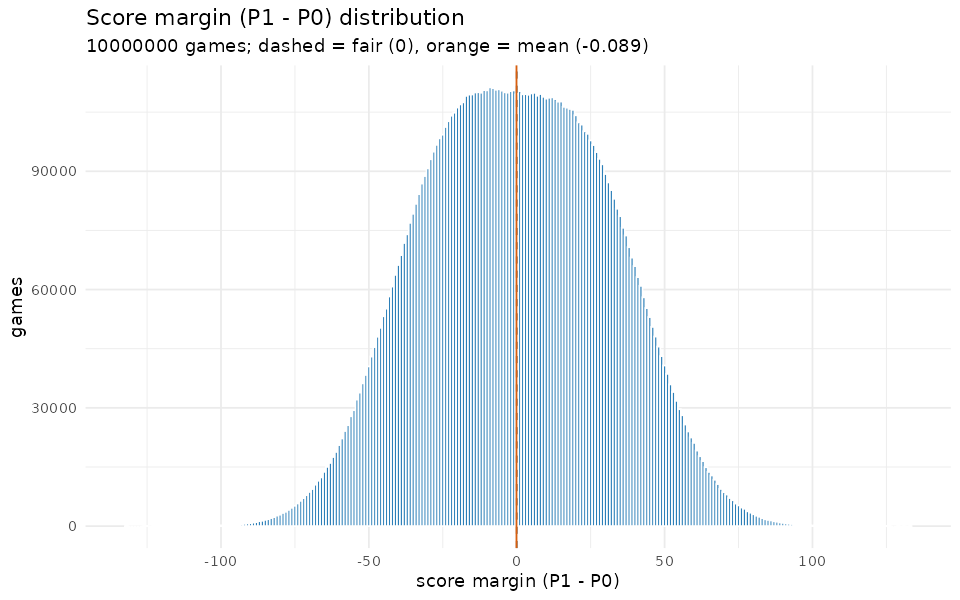
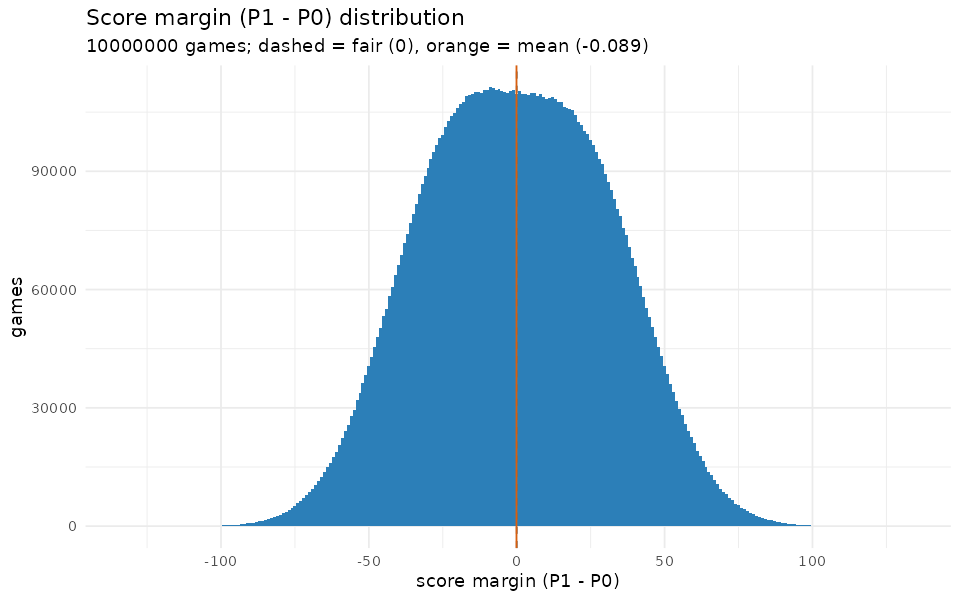
refactor(analysis): native DuckDB JSON ingest via duckplyr
Switch the fairness analysis to duckplyr with prudence "stingy", pushing all
aggregation into DuckDB and materialising only the small result tables (the
10M per-game rows never enter R):

- Unconditional INSTALL json then LOAD json on duckplyr's connection; read
  NDJSON natively (no more regexp_extract-over-VARCHAR workaround).
- One-time NDJSON -> typed Parquet conversion via compute_parquet, cached and
  rebuilt only when stale; subsequent runs read the Parquet directly.
- Per-setup aggregation via summarise(.by=) and the margin histogram binned in
  DuckDB; overall/among-setup CIs and the variance decomposition computed in R
  on the small collected tables. Variance derived from sd() since var() does
  not translate and duckplyr 1.2.1 has no dd$ escape hatch.

Also: note duckplyr/ggplot2 in DESCRIPTION Suggests, gitignore the Parquet
cache, update the analysis spec delta, and mark the extension tasks done
(6.5 documenting the extension install in the toolchain remains).

Claude-Session: https://claude.ai/code/session_01JtDe7DZz9Bb8VjmsTWFiH7

Changed region(s): [[0.25, 0.15, 0.8125, 0.9]]

diff --git a/openspec/changes/batch-fairness-runner/tasks.md b/openspec/changes/batch-fairness-runner/tasks.md
@@ -40,8 +40,10 @@
 - [x] 5.2 Run `openspec validate batch-fairness-runner` and resolve any issues
 - [ ] 5.3 Fold the delta specs into `openspec/specs/engine/spec.md` and `openspec/specs/analysis/spec.md` at archive time (handled by `/opsx:archive`)
 
-## 6. DuckDB JSON extension (pending)
+## 6. Native DuckDB JSON ingest via duckplyr
 
-- [ ] 6.1 Make the DuckDB `json` extension available offline — its autoload/`INSTALL` fetch to `wrapdb`/extension repos is blocked by the network policy, so the analysis currently reads NDJSON as VARCHAR lines and pulls fields with core `regexp_extract`. Options: add `duckdb`'s extension download host to the environment allow-list and pre-install into a persistent `DUCKDB_EXTENSION_DIRECTORY`, or vendor the `json.duckdb_extension` for the pinned DuckDB version.
-- [ ] 6.2 Once the extension installs and loads, switch `analysis/fairness_analysis.R` ingest to native `read_json_auto(..., format='newline_delimited')` and drop the regex-extraction fallback (simpler, and robust to field order / nested fields).
-- [ ] 6.3 Document the extension install step in the toolchain/setup (devcontainer + `scripts/install-tools.sh` / CI) so a fresh checkout has it, and note the `duckdb` R package dependency in `DESCRIPTION`.
+- [x] 6.1 Confirmed an explicit `INSTALL json` reaches `extensions.duckdb.org` and succeeds in this environment (the earlier failure was autoload not fetching, not a blocked host). Ingest now installs + loads the extension unconditionally.
+- [x] 6.2 Switch `analysis/fairness_analysis.R` ingest to native reading via `duckplyr` (`read_json_duckdb` / `read_parquet_duckdb`) with prudence `"stingy"`; push all aggregation into DuckDB and collect only the small result tables. Dropped the `regexp_extract`-over-VARCHAR fallback.
+- [x] 6.3 One-time NDJSON → Parquet conversion (cached; rebuilt only when stale) via `duckplyr::compute_parquet`; subsequent runs read the Parquet cache.
+- [x] 6.4 Note the `duckplyr` / `ggplot2` analysis dependencies in `DESCRIPTION`; gitignore the Parquet cache.
+- [ ] 6.5 Document the DuckDB `json` extension install in the toolchain/setup (devcontainer + `scripts/install-tools.sh` / CI) and pin a persistent `DUCKDB_EXTENSION_DIRECTORY` so a fresh checkout/CI runner installs it once instead of per session.

diff --git a/openspec/changes/batch-fairness-runner/specs/analysis/spec.md b/openspec/changes/batch-fairness-runner/specs/analysis/spec.md
@@ -2,7 +2,7 @@
 
 ### Requirement: Fairness analysis ingests batch summary logs via DuckDB
 
-The fairness analysis script at `analysis/fairness_analysis.R` SHALL call `pkgload::load_all()` at startup, read a batch `game_summary` NDJSON file into DuckDB, and expose a per-game table with columns `setup_id`, `seed`, `score_p0`, `score_p1`, `winner`, `plies`, and a derived `margin` = `score_p1 − score_p0`. The script SHALL document any R package dependencies beyond `DESCRIPTION` (at minimum `duckdb`) in a top-of-file comment block.
+The fairness analysis script at `analysis/fairness_analysis.R` SHALL call `pkgload::load_all()` at startup and ingest a batch `game_summary` NDJSON file into DuckDB (via `duckplyr`), exposing a per-game table with columns `setup_id`, `seed`, `score_p0`, `score_p1`, `winner`, `plies`, and a derived `margin` = `score_p1 − score_p0`. Ingestion SHALL install and load the DuckDB `json` extension, convert the NDJSON to a typed Parquet cache once (rebuilt only when the cache is missing or older than the NDJSON), and read subsequent runs from that cache. Frames SHALL use `duckplyr` prudence `"stingy"` so the per-game rows are never materialised into R; all aggregation SHALL be pushed into DuckDB and only the small result tables collected. The script SHALL document any R package dependencies beyond `DESCRIPTION` (at minimum `duckplyr`) in a top-of-file comment block.
 
 #### Scenario: Summary log is loaded
 
